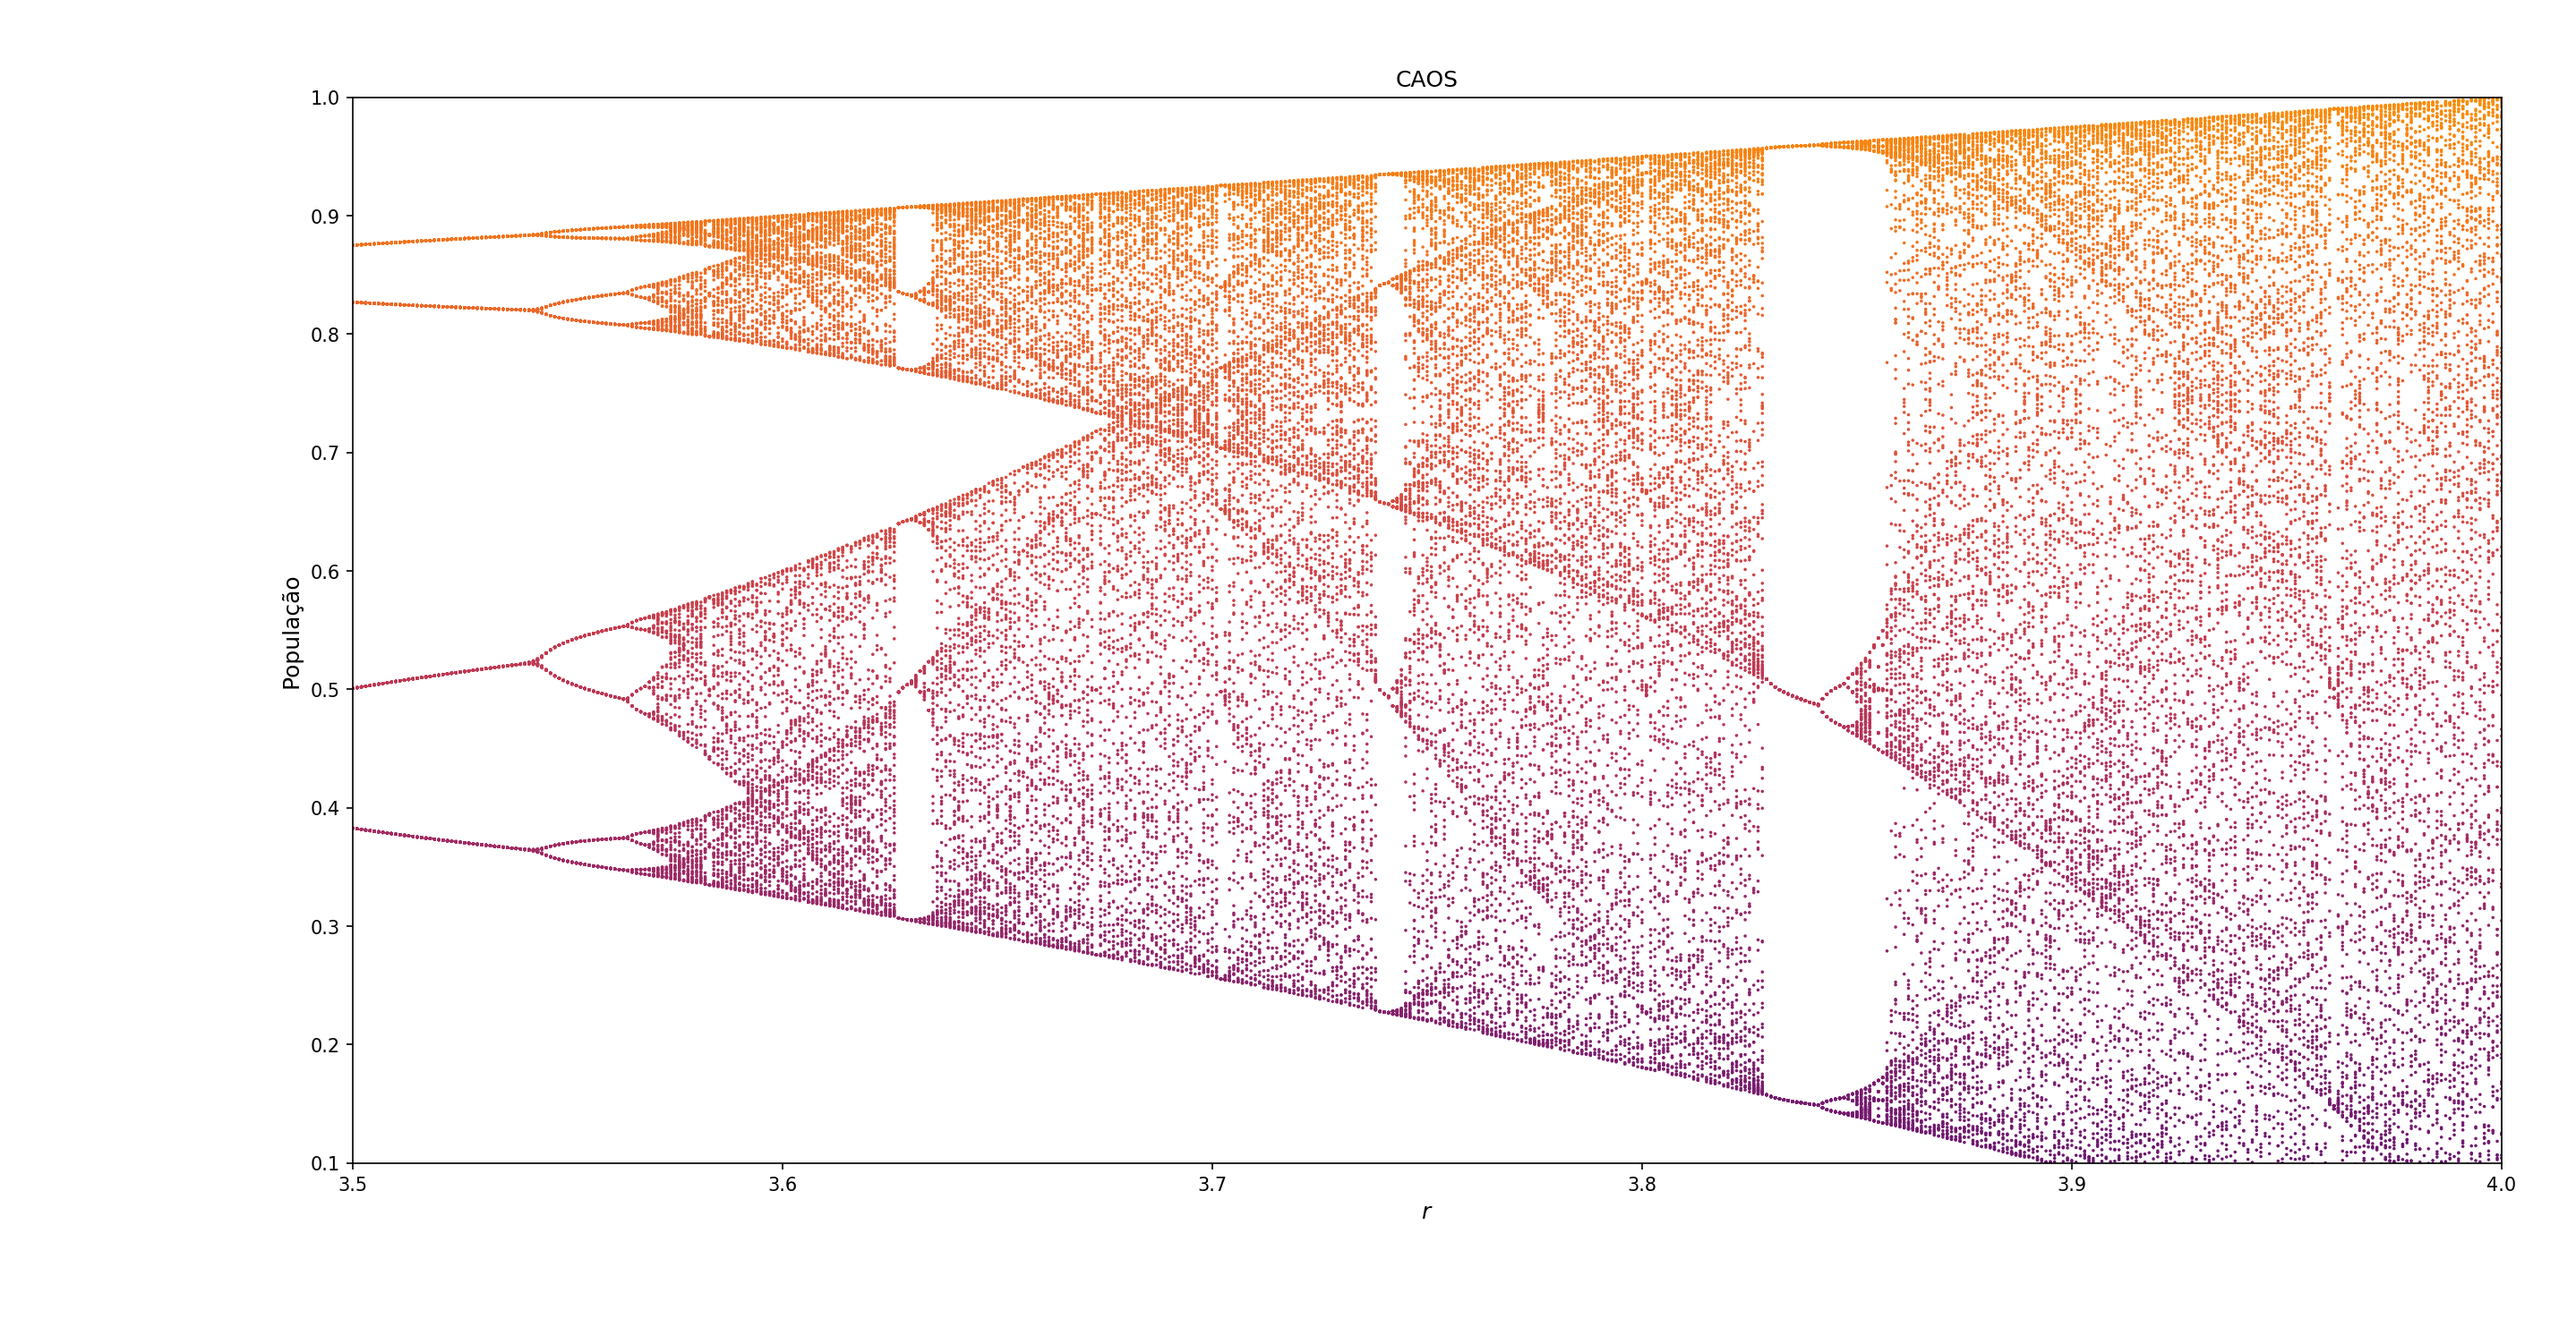
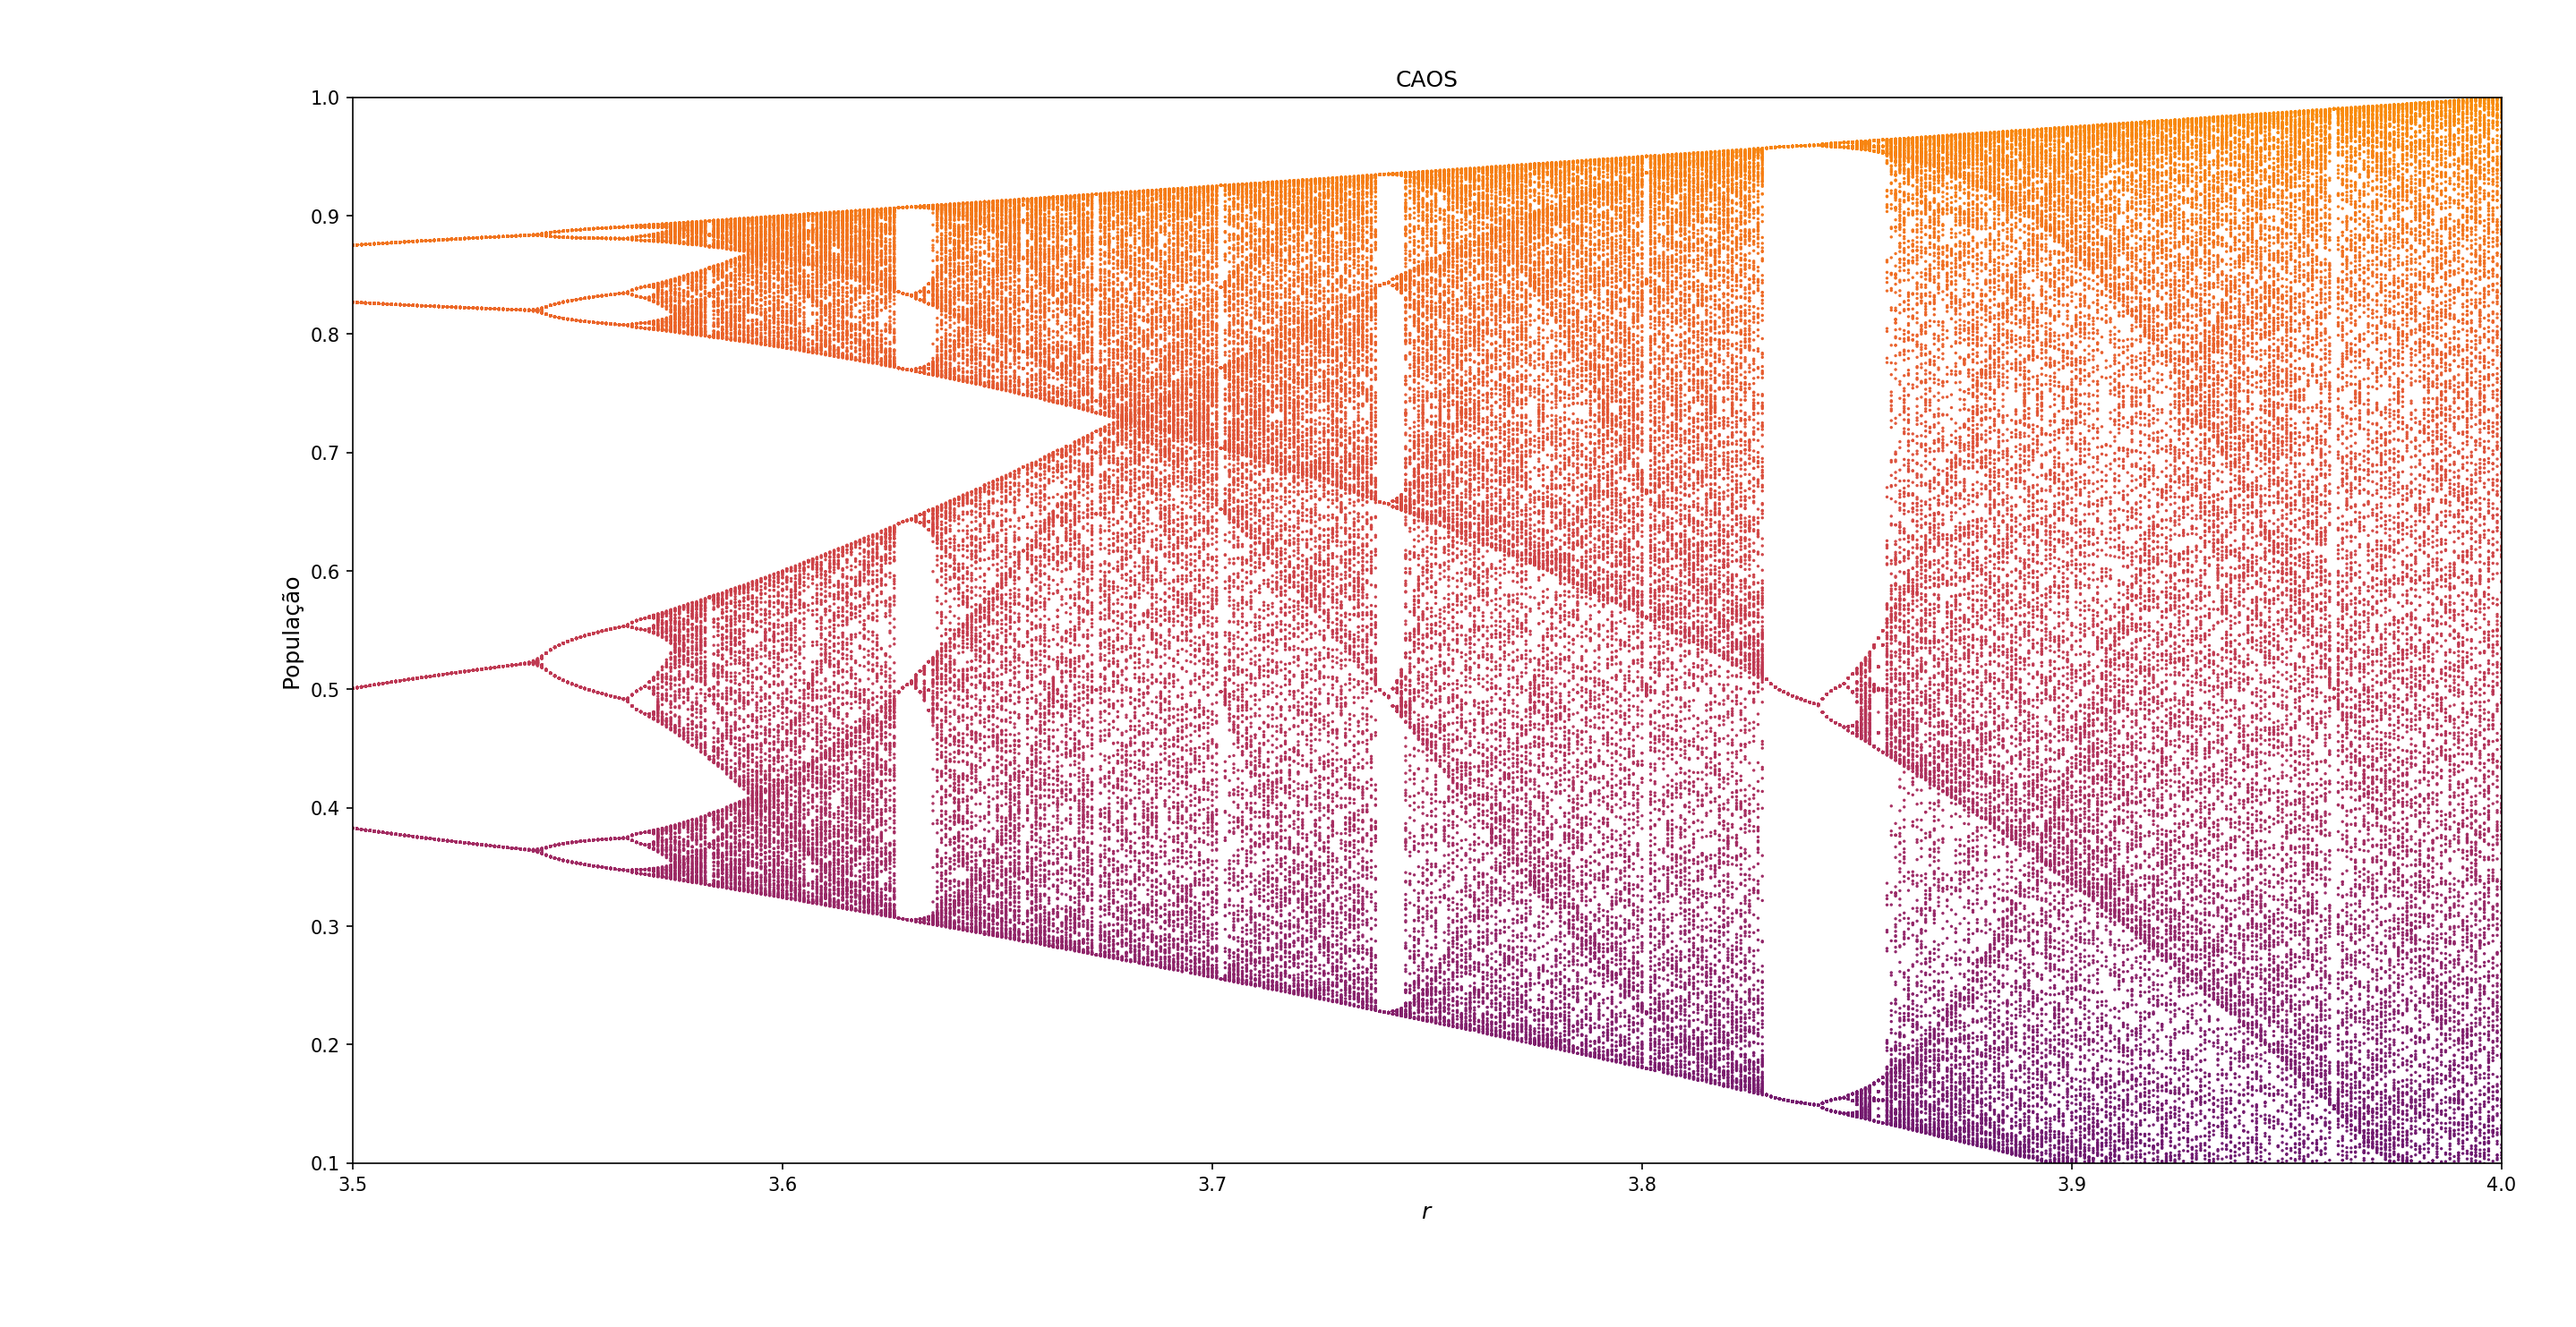
[P5 - Eric] beter 2

Changed region(s): [[0.2475, 0.1241, 0.6806, 0.8375], [0.7115, 0.062, 0.9899, 0.8685]]

diff --git a/projeto5/2.py b/projeto5/2.py
@@ -64,7 +64,7 @@ if bla.returncode != 0:
 x0 = .666
 # run code
 print("Running code")
-with open("out_caos", mode = 'w') as outfile:
+with open("/dev/shm/out_caos", mode = 'w') as outfile:
     bla = subprocess.run(["./a.out"],
                          input = str(x0),
                          encoding ='ascii',
@@ -75,10 +75,10 @@ print("Plotting results for ex 2b")
 
 fig = plt.figure()
 ax = fig.add_subplot(111)
-data = np.loadtxt("out_caos", unpack = True)
+data = np.loadtxt("/dev/shm/out_caos", unpack = True)
 x = data[1]
 y = data[0]
-ax.scatter(x, y, s = 0.5, c = y, cmap = 'inferno')
+ax.scatter(x, y, s = 0.4, c = y, cmap = 'inferno')
 
 plt.title("CAOS")
 plt.xlabel("$r$", fontsize = 'large')
@@ -100,4 +100,5 @@ plt.savefig("2b_zoom.png",
 print("getting rid of output files")
 for shit in glob.glob("out_*"):
     os.remove(shit)
+os.remove("/dev/shm/out_caos")
 print(":D")

diff --git a/projeto5/Readme.md b/projeto5/Readme.md
@@ -14,6 +14,10 @@ O código `1.py` é um script Python que compila, executa e faz os gráficos:
 
 O código `2.f90` imprime no terminal `xi, r` como pedido no item b).
 
+**Cuidado:** o código produz um arquivo de saída de ~1.5 GB e leva alguns
+minutos para terminar de rodar! O arquivo e salvo em `/dev/shm/out_caos`,
+garanta que sua RAM tem espaço para isso.
+
 O código `2.py` é um script Python que compila, executa e faz os gráficos:
 
 ![](2a.png)
